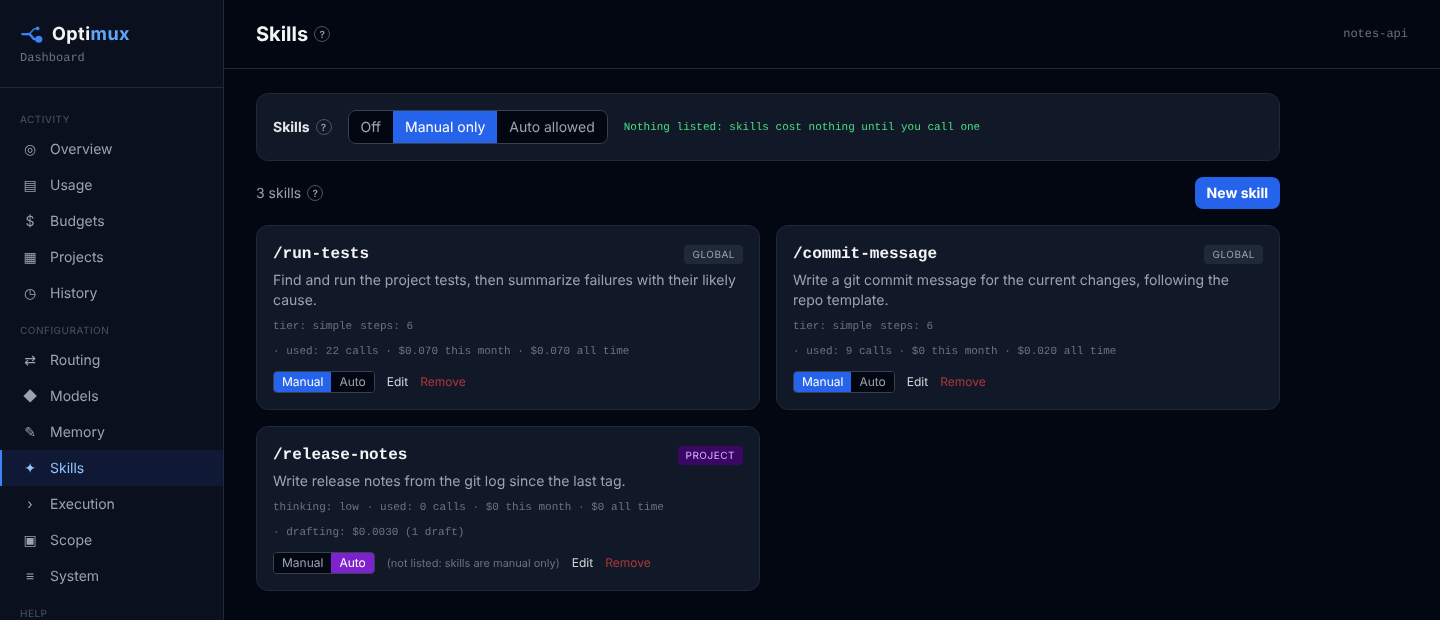
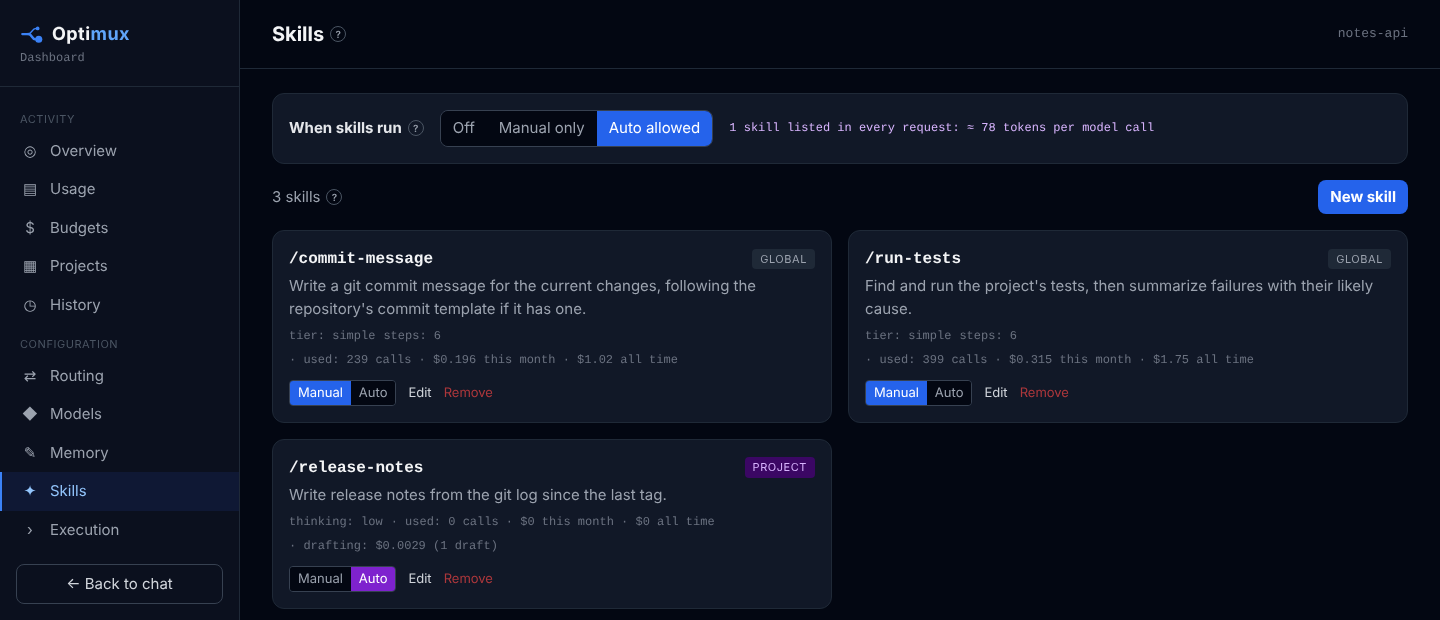
[ DOCS ] README: Show realistic costs; compare the three kinds of memory
FILES MODIFIED:
- README.md
- docs/images/dashboard-overview.png
- docs/images/dashboard-usage.png
- docs/images/skills.png
- docs/images/chat.png
- docs/images/approval.png

DETAILED DESCRIPTION:
- Screenshots: the costs shown were a few dollars a month, which could
  suggest a whole project costs about $5. They now show a month of
  regular use: about $40 in the first 11 days of the month (roughly
  $110-140 a month), $3-9 on a working day, and budgets of $120 and $60
  per project.
  - Overview, Usage and Skills were retaken from the real app on demo
    data: two projects, the Simple model for most calls, the Complex model
    for hard tasks, explicit prices per million tokens (Gemini 3.6 Flash
    0.30/0.03/2.50, Claude Sonnet 5.5 3.00/0.30/15.00), so every figure is
    tokens times price.
  - Chat and Approval: the header (project cost and budget) replaced
    with the real header rendered on the same data.
- README, "Memory and skills": a table comparing personal, professional
  and project memory (contents, where used, who changes it, automatic
  updates, history and undo, file location, settings), and a note that
  memory costs tokens on every call.

VALIDATION:
- pytest: 543 passed (Python 3.13).
- Screenshots checked one by one; the numbers agree between pages
  (month, project budgets, today).

diff --git a/README.md b/README.md
@@ -107,6 +107,19 @@ Server mode is set by the installer; you only set `OPTIMUX_SERVER=1` yourself wh
 - **Automatic project memory**: after a chat, the cheap model keeps the project's facts up to date, under a size cap, with a full history, diffs and undo.
 - **Skills**: reusable instructions you run with `/name`. Manual skills cost nothing while idle; Auto skills can be picked by the model.
 
+| | Personal | Professional | Project |
+|---|---|---|---|
+| What goes in it | your name, language, how you like answers | coding style, commit habits, general rules | build and test commands, stack, structure, conventions, decisions, known issues |
+| Used in | every chat, in every project | every chat, in every project | chats in that project only |
+| Sent to the model | with every request | with every request | with every request in that project |
+| Changed by | you, or the model when you ask it to remember | you, or the model when you ask it to remember | you, the model when asked, and **automatic updates** |
+| Automatic updates | never | never | when a chat ends (or after 10 idle minutes): the cheap model keeps durable facts only, under about 1,500 tokens; can be turned off |
+| History and undo | no | no | every change, with a diff, its cost and **Undo** |
+| Where it is kept | `~/.optimux/memory/personal.md` | `~/.optimux/memory/professional.md` | `~/.optimux/memory/projects/<project>.md` |
+| Settings | Dashboard → Memory | Dashboard → Memory | Dashboard → Memory → Project: on/off, idle minutes, **Update now**; Budgets: a warning before **Update now** |
+
+Memory costs tokens on every model call, so short and precise memory is cheaper **and** works better. A Workspace chat (no project selected) uses personal and professional memory only.
+
 **Costs and data**
 - Live cost while a reply runs, and a cost line under every reply.
 - **Dashboard**: overview, usage by project, role, model and skill, a 30-day cost chart, budgets, history with filters.
